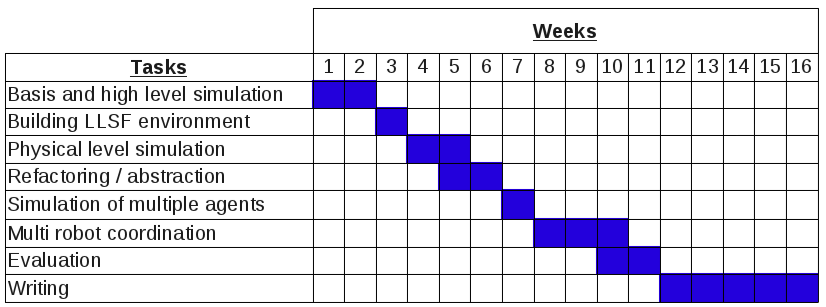
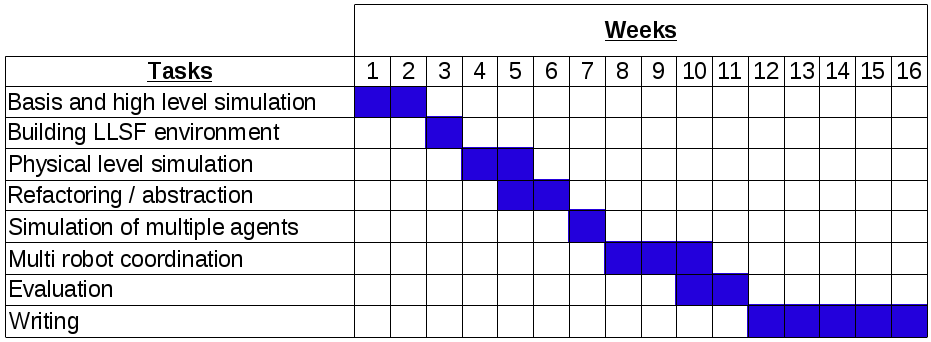
updated schedule, changed title

Changed region(s): [[0.0, 0.0, 0.9988, 0.9967]]

diff --git a/BA-Proposal.tex b/BA-Proposal.tex
@@ -24,7 +24,7 @@
 %%Title%%
 %%%%%%%%%
 \author{Frederik Zwilling 304314}
-\title{Bachelor-Thesis Proposal:\\ Multi-Robot Simulation of the RoboCup Logistic League with Fawkes and Gazebo for Multi-Robot Coordination Evaluation}
+\title{Bachelor-Thesis Proposal:\\ Simulation of the RoboCup Logistic League with Fawkes and Gazebo for Multi-Robot Coordination Evaluation}
 \begin{document}
 %\thispagestyle{empty}
 %\tableofcontents
@@ -51,11 +51,11 @@ The Logistic League Sponsored by Festo (LLSF) is part of \textit{RoboCup}, an in
 \label{Figure 1}
 \caption{A half of the LLSF field. Two Robotinos of the Carologistics team at the RoboCup German Open 2013}
 \end{figure}
-Figure 1 shows a part of the 5.6m x 5.6m hall with two Carologistic robots, three machines and some material-pucks. The main task of LLSF is to produce and deliver ordered products as efficient as possible by feeding machines with resources and semi-finished products. The participants can use up to three Robotino robots by Festo~\cite{{Robotino}}. They hold omni-directional wheels, a gripper to move pucks, and other sensors added by the participants. The orange pucks represent resources and products. They are equipped with an RFID-chip\footnote{Radio-frequency identification allows the wireless identification of objects with small chips.} which is needed to store the different product states of the pucks. The light-signals on top of the RFID-readers represent the machines. They convert resources or semi-finished products into products and trash. There are different types of machines. They can produce different product-types, produce intermediate products, recycle trash or are used for the delivery of products. The light-signals on top of the machines indicate the machine-status. Beside these visual elements, there is also a referee box (refbox), which controles the machines and communicates with the robots during the game. The refbox gives orders which products are to be produced, informs the robots about the game state and rewards points for achieved goals.
+Figure 1 shows a part of the 5.6m x 5.6m hall with two Carologistic robots, three machines and some material-pucks. The main task of LLSF is to produce and deliver ordered products as efficient as possible by feeding machines with resources and semi-finished products. The participants can use up to three Robotino robots by Festo~\cite{{Robotino}}. They hold omni-directional wheels, a gripper to move pucks, and other sensors added by the participants. The orange pucks represent resources and products. They are equipped with an RFID-chip\footnote{Radio-frequency identification allows the wireless identification of objects with small chips.} which is needed to store the different product states of the pucks. The light-signals on top of the RFID-readers represent the machines. They convert resources or semi-finished products into products and trash. There are different types of machines. They can produce different product-types, produce intermediate products, recycle trash or are used for the delivery of products. The light-signals on top of the machines indicate the machine-status. Beside these visual elements, there is also a referee box (refbox), which controls the machines and communicates with the robots during the game. The refbox gives orders which products are to be produced, informs the robots about the game state and rewards points for achieved goals.
 \subsection{Fawkes}
 \sloppy
 Fawkes is an Open Source robot software framework developed primarily at the Knowledge-based Systems Group\footnote{\url{http://www.kbsg.rwth-aachen.de/}} at RWTH Aachen University. It is written for Unix systems and follows a component-based software design~\cite{{FawkesDesign}}. It provides an infrastructure to load and unload binary components (implemented as plugins) at run-time and provides a blackboard for communication between the plugins. A plugin can access the blackboard via interfaces. Furthermore it organizes the plugin activity in threads to make use of multi-core architectures. Because of this design, Fawkes is flexible and dynamic. The interchangeability of the plugins, which is caused by the well defined interfaces, makes hardware abstraction and reuse easy. This is also an important advantage for the development of the simulation because the simulation can easily exchange the lower-level robot control and sense plugins. The robot control plugins on higher levels can operate as usual because the interface is the same.\\
-Fawkes is comparable to the Robot Operating System ROS~\cite{{Ros}}. ROS is an Open Source framework designed to operate on many robot platforms and provide a standardized integration framework. It provides a collection of  useful libraries and tools in the development process of robot-software. ROS is widely used and has a big community. In comparison to ROS, the advantage of Fawkes is the tighter integration of the used components. The main loop of Fawkes controls the execution order of all component threads. This makes it possible to match certain time criteria for the components and to provide a \textit{sense-think-act} cycle.
+Fawkes is comparable to the Robot Operating System ROS~\cite{{Ros}}. ROS is an Open Source framework designed to operate on many robot platforms and to provide a standardized integration framework. It provides a collection of  useful libraries and tools for the development process of robot-software. ROS is widely used and has a large community. In comparison to ROS, the advantage of Fawkes is the tighter integration of the used components. The main loop of Fawkes controls the execution order of all component threads. This makes it possible to match certain time criteria for the components and to provide a \textit{sense-think-act} cycle.
 \subsection{Gazebo}
 Gazebo is an Open Source robot simulator~\cite{{GazeboDesign}}. It provides a platform to simulate the behavior of robots and other objects physically in a three dimensional world. The Open Source engine Ogre\footnote{\url{http://www.ogre3d.org}} is used for the graphical presentation of the simulation and allows realistic graphical environment. This is important for the simulation of camera sensors. Physics are simulated with the Open Dynamics Engine\footnote{\url{http://www.ode.org}}. Gazebo was originally developed for outdoor applications and aims to simulate robots in a complex and realistic environment. Besides the physical simulation, it does this by generating data for different types of sensors. Gazebo can simulate laser range finders, cameras, sonar sensors, bumpers and more. This enables a more realistic simulation. A simulation in Gazebo is developed by creating robot and world models and developing Gazebo-plugins for behavior. These plugins can control objects in Gazebo and communicate with other software.\\
 Why Gazebo was chosen as the most suitable simulator for this thesis, is shown in the section about related work.
@@ -92,28 +92,28 @@ There are several other multi-robot simulation environments. \cite{{MultiLevelAb
 \end{figure}
 The omni-directional wheels of the Robotino work in the same way, but have a different design that needs to be modeled. The omni-vision camera mounted on the Robotino of Carologistics is very similar to the camera on the soccer-robots. The Gazebo-plugin for this camera might be a help for this thesis. The main point of~\cite{{MultiLevelAbstraction}} is the multi-level abstraction of the simulation. That means that the simulation is able to simulate with different levels of complexity. For example, the simulation can simulate on the physical level, where the robot software has to do movements and sensing as in the real world, and on a high logical level, where the robot moves exactly like intended and the simulation tells the robot exactly where it is located. These different abstraction levels are also important for the proposed thesis because they make the simulation more flexible and are well suited as milestones of the development of the simulation. \cite{{MultiLevelAbstraction}}~also shows that the speed of the simulation is an important aspect. If the simulation does not run fast enough to simulate in real-time, the behavior of the simulated robots may change because many processes running on the agent measure the time themselves. \cite{{MultiLevelAbstraction}}~dealt with this problem by changing the source code of the robot-software to use the simulation time instead of the system time. This is also possible in Fawkes because all plugins can use the time provided by Fawkes.\\
 Another related work is~\cite{{SurveillanceSystem}}. It uses Gazebo and Player to simulate a surveillance system with Pioneer3AT robots. In this system several robots have to monitor an outdoor area and find possible intruders. Therefore, the robots have to spread over the area and coordinate their movements. The simulation was important for the development of the system because it could quickly simulate different areas and situations.\\
-The 3D-Soccer-Simulation League in the RoboCup uses Simspark as simulator\footnote{\url{http://www.robocupgermanopen.de/sites/default/files/rules_GO_2013_3Dsim.pdf}}. In this league two teams of eleven NAO robots each play in the simulation. The competition and comparison between the different approaches of multi-agent strategies make this league interesting for the thesis. There are some works such as~\cite{{SoccerChampion}} which show the capability of the simulator to simulate complex movements and agent architectures.
+The 3D-Soccer-Simulation League in the RoboCup uses SimSpark as simulator\footnote{\url{http://www.robocupgermanopen.de/sites/default/files/rules_GO_2013_3Dsim.pdf}}. In this league two teams of eleven NAO robots each play in the simulation. The competition and comparison between the different approaches of multi-agent strategies make this league interesting for the thesis. There are some works such as~\cite{{SoccerChampion}} which show the capability of the simulator to simulate complex movements and agent architectures.
 \subsection{Multi-Robot Coordination Strategies}
-At the RoboCup 2012 in Mexico, the Carologistic team used a single Robotino in the LLSF competition. Therefore, no multi-robot coordination was needed. At the RoboCup 2013 in Eindhoven the team used two robots with fixed roles. These roles determined the tasks of the robots over the whole game. One Robotino was assigned to produce the simplest product, which takes only one resource puck, and the other one was assigned to produce complex products. Here again, no real coordination strategy was needed. It was only necessary to lock the two positions on the field, that both robots need. These two positions are the input storage, where the robots get new resources and the delivery zone, where the robots deliver finished products. The machines the robots needed were disjoint. This task allocation depending on roles is simple to implement and robust against network failure. However, it is neither flexible against robot failure nor efficient because the robots can not work on other tasks while the product of their role is producing.\\
-A task allocation strategy, which is build on on game theory~\cite{GameTheory} and operations research~\cite{OperationsResearch} is \textit{Murdoch}. Murdoch was presented by~\cite{DissMurdoch} and is an auction-based system. It solves a special instance of the \textit{Optimal Assignment Problem}. The Optimal Assignment Problem is to assign $n$ weighted jobs to $m$ workers with nonnegative skill ratings $h_{i,j}$ for each worker-job combination. Each worker is capable of doing one job at a time and each job can only be done by one worker. The task is to find the optimal assignment which optimizes the performance, taking into account the weights of the jobs and the skill ratings of the workers to the jobs. The Murdoch method was especially developed 
-for multi-robot scenarios. Therefore, it was designed to be able to handle robot failure and communication message loss. If a robot discovers a new task, it becomes an auctioneer and publishes a broadcast message to inform other robots about the task. All robots that are capable of doing the task calculate a metric of how well they probably perform on the task. This metric is sent as a bid to the auctioneer. Finally the auctioneer decides after a predefined time interval which robot gets the task and informs this robot. After the allocation, the auctioneer observes the progress of the task and starts a new auction if the robot assigned in the first place fails. This method is decentralized but not optimal. However, \cite{DissMurdoch}~showed that the method performs well in different multi-agent tasks.\\
+At the RoboCup 2012 in Mexico, the Carologistic team used a single Robotino in the LLSF competition. Therefore, no multi-robot coordination was necessary. At the RoboCup 2013 in Eindhoven the team used two robots with fixed roles. These roles determine the tasks of the robots over the whole game. One Robotino is assigned to produce the simplest product, which takes only one resource puck, and the other one is assigned to produce complex products. Here again, no real coordination strategy is needed. It is only necessary to lock the two positions on the field, that both robots need. These two positions are the input storage, where the robots get new resources and the delivery zone, where the robots deliver finished products. The machines the robots use are disjoint. This task allocation depending on roles is simple to implement and robust against network failure. However, it is neither flexible regarding robot failure nor efficient because the robots can not work on other tasks while the product of their role is being produced.\\
+A task allocation strategy, which is built on game theory~\cite{GameTheory} and operations research~\cite{OperationsResearch} is \textit{Murdoch}. Murdoch was presented by~\cite{DissMurdoch} and is an auction-based system. It solves a special instance of the \textit{Optimal Assignment Problem}. The Optimal Assignment Problem is to assign $n$ weighted jobs to $m$ workers with nonnegative skill ratings $h_{i,j}$ for each worker-job combination. Each worker is capable of doing one job at a time and each job can only be done by one worker. The task is to find the assignment which optimizes the performance, taking into account the weights of the jobs and the skill ratings of the workers to the jobs. The Murdoch method was especially developed 
+for multi-robot scenarios. Therefore, it was designed to be able to handle robot failure and communication message loss. If a robot discovers a new task, it becomes an auctioneer and publishes a broadcast message to inform other robots about the task. All robots that are capable of doing the task calculate a metric of how well they probably will perform on the task. This metric is sent as a bid to the auctioneer. Finally the auctioneer decides after a predefined time interval which robot gets the task and informs this robot. After the allocation, the auctioneer observes the progress of the task and starts a new auction if the robot assigned in the first place fails. This method is decentralized but not optimal. However, \cite{DissMurdoch}~showed that the method performs well in different multi-agent tasks.\\
 
 \section{Details of Work}
 \subsection{Goals}
 This section presents the goals of the thesis and how they will be reached in detail:
 \begin{itemize}
-\item \textbf{Simulation environment for LLSF:} Developing a simulation of LLSF means in detail to create a realistic environment in the simulation similar to Figure 1. The communication between Fawkes and Gazebo will be realized by using Google's Protocol Buffers\footnote{\url{http://code.google.com/p/protobuf/}}. Google Protocol Buffers is commonly known as Protobuf. It provides a flexible and easy to use data exchange format. It is possible to define Messages in $.proto$ files. These file can be compiled to generate code files in different languages, such as C++ or Java. This makes it simple to use Protobuf in the own code. The main reason for coosing Protobuf for communication is that it is used in the Gazebo API and in~\cite{{KlingenDA}}.
+\item \textbf{Simulation environment for LLSF:} Developing a simulation of LLSF means in detail to create a realistic environment in the simulation similar to Figure 1. The communication between Fawkes and Gazebo will be realized by using Google's Protocol Buffers\footnote{\url{http://code.google.com/p/protobuf/}}. Google Protocol Buffers is commonly known as Protobuf. It provides a flexible and easy to use data exchange format. It is possible to define messages in $.proto$ files. These files can be compiled to generate code files in different languages, such as C++ or Java. This simplifies using Protobuf in the own code. The main reason for choosing Protobuf for communication is that it is used in the Gazebo API and in~\cite{{KlingenDA}}.
 \end{itemize}
-On the one hand the movement orders from Fawkes will be executed in Gazebo and on the other hand the Gazebo plugins will simulate the sensing and will send the data to Fawkes. These two sides of the simulation will be developed in different levels.
+On the one hand the movement orders from Fawkes will be executed in Gazebo and on the other hand the Gazebo plugins will simulate the sensing and will send the data to Fawkes. These two sides of the simulation will be developed in different detail-levels.
 \begin{itemize}
 \item \textbf{High level simulation:} In the high level simulation, Gazebo tells Fawkes ground truth about the simulated Robotinos. This includes the exact position, gyro-values and state of the objects which should be found by vision. All movement commands are executed exactly as intended. This level of simulation allows debugging and comparison of multi-robot strategies on a high logical level. All perception and motion control problems are left out.
-\item \textbf{Low level simulation:} In the low level simulation, Fawkes receives only raw laser-data with and Gaussian error and captured images. The movements are realized by using the physics engine and the rotation of the wheels. This allows a more realistic simulation and test of the whole system. For example, collisions between robots can be simulated. Furthermore it is possible to run isolated tests of perception and motion-control components.
-\item \textbf{Simulation of multiple and communicating agents:} An important task of the thesis is the simulation of multiple robots controlled by separately running Fawkes instances in the same Gazebo environment at the same time. A global administrator plugin or a mechanism to map the Fawkes instances to the simulated Robotino plugins is necessary. The communication between the Fawkes instances has not to be simulated because the local network is available. On the other hand, it is useful to simulate network latency and failure because there often are WiFi problems at RoboCup Competitions. Therefore the communication also can be simulated on different levels.\\
-\item \textbf{Expandability of the simulation:} Achieving abstraction in the implementation is important, so changes of LLSF or the Robotino can be easily integrated and other developments beside LLSF can benefit from this thesis. Two examples for such changes are that Festo recently presented a new Robotino version and the Technical Committee of LLSF decided to merge the two separate field to one big field. The approach, to tackle expandability, is to build abstract sensors and actuators for the simulation for Fawkes and Gazebo. The present and future components can then specify the abstract ones. The abstract components encapsulates the communication between Fawkes and Gazebo as well as other functionality that is not domain specific. Furthermore the robot and field model of the simulation has to be exchangeable. All this is done as a second step to achieve a working simulation quicker and to benefit from the knowledge gained in the first run.
+\item \textbf{Low level simulation:} In the low level simulation, Fawkes receives only raw laser-data with and Gaussian error and captured images. The movements are realized by using the physics engine and the rotation of the wheels. This allows a more realistic simulation and testing of the whole system. For example, collisions between robots can be simulated. Furthermore it is possible to run isolated tests of perception and motion-control components.
+\item \textbf{Simulation of multiple and communicating agents:} An important task of the thesis is the simulation of multiple robots controlled by separately running Fawkes instances in the same Gazebo environment at the same time. A global administrator plugin or a mechanism to map the Fawkes instances to the simulated Robotino plugins is necessary. The communication between the Fawkes instances does not have to be simulated because the local network is available. On the other hand, it is useful to simulate network latency and failure because there often are WiFi problems at RoboCup competitions. Therefore the communication can also be simulated on different levels.\\
+\item \textbf{Expandability of the simulation:} Achieving abstraction in the implementation is important, so changes of LLSF or the Robotino can easily be integrated and other developments beside LLSF can benefit from this thesis. Two examples for such changes are that Festo recently presented a new Robotino version and the Technical Committee of LLSF decided to merge the two separate fields to one big field. The approach, to tackle expandability, is to build abstract sensors and actuators for the simulation for Fawkes and Gazebo. The present and future components can then specify the abstract ones. The abstract components encapsulate the communication between Fawkes and Gazebo as well as other functionality that is not domain specific. Furthermore the robot and field model of the simulation have to be exchangeable. All this is done as a second step to achieve a working simulation more quickly and to benefit from the knowledge gained in the first run.
 \item \textbf{Multi-level abstraction:} The multi-level abstraction similar to~\cite{{MultiLevelAbstraction}} follows after the implementation of the high and low level simulation. Afterwards, it should be possible to choose the detail-level of the simulation.
-\item \textbf{Simulation of LLSF challenges:} Another goal is to simulate the technical challenges of LLSF. For example there is a \textit{Whac-A-Mole} challenge. A robot has to reach machines, which give a light signals, as fast as possible. This can be simulated by changing the behavior of the machines in the simulation environment.
-\item \textbf{Comparison of different multi-robot strategies:} The comparison of different multi-robot strategies to solve the LLSF task is a long term goal of the Carologistics team. An efficient strategy has to be found and optimized to get good results in LLSF. The thesis compares strategies (e.g. the current role-based strategy and Murdoch) to prepare further work and show the capabilities of the simulator.
-\item \textbf{Qualitative and quantitative evaluation of simulation:} The goals of evaluation are shown in detail in the next section.
+\item \textbf{Simulation of LLSF challenges:} Another goal is to simulate the technical challenges of LLSF. For example there is a \textit{Whack-A-Mole} challenge. A robot has to reach machines, which give light signals, as fast as possible. This can be simulated by changing the behavior of the machines in the simulation environment.
+\item \textbf{Comparison of different multi-robot strategies:} The comparison of different multi-robot strategies to solve the LLSF task is a long term goal of the Carologistics team. An efficient strategy has to be found and optimized to get good results in LLSF. The thesis compares strategies (e.g. the current role-based strategy and Murdoch) to prepare further work and to show the capabilities of the simulator.
+\item \textbf{Qualitative and quantitative evaluation of simulation:} The evaluation-goals are shown in detail in the next section.
 \end{itemize}
 
 \subsection{Implementation Structure}
@@ -123,7 +123,7 @@ The implementation should be extendable to be able to easily implement future ch
 \subsection{Schedule}
 \begin{table}
 \centering
-\includegraphics[scale=0.5]{pics/Schedule.png}
+\includegraphics[scale=0.45]{pics/Schedule.png}
 \label{Table 1}
 \caption{Time-schedule}
 \end{table}
